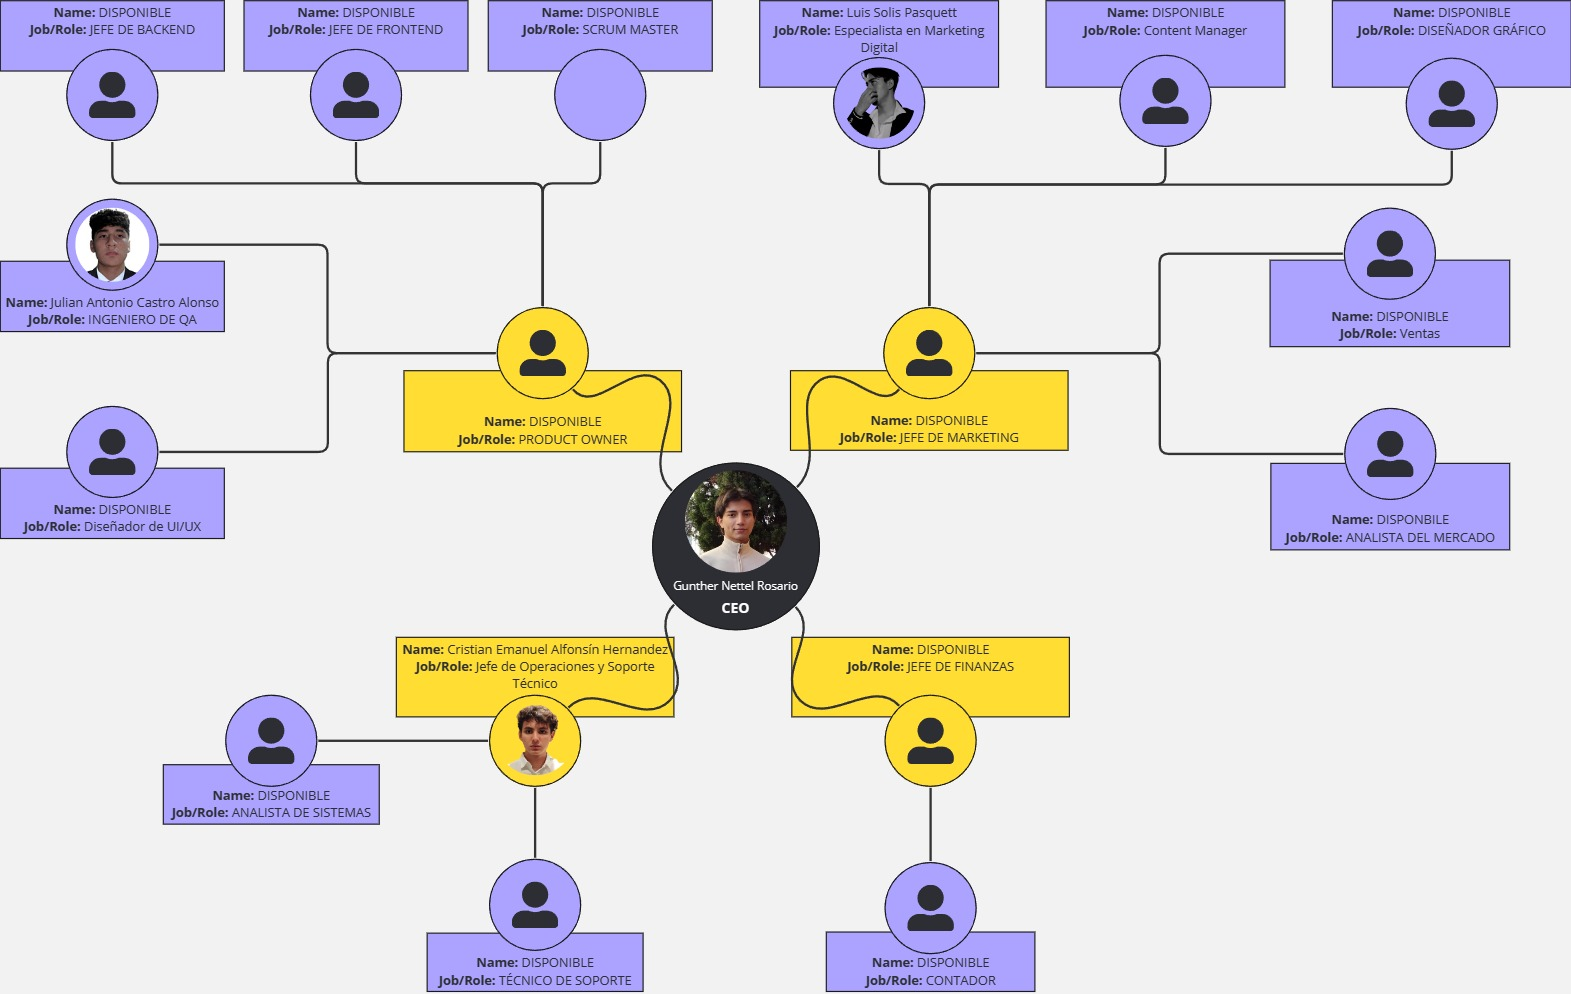
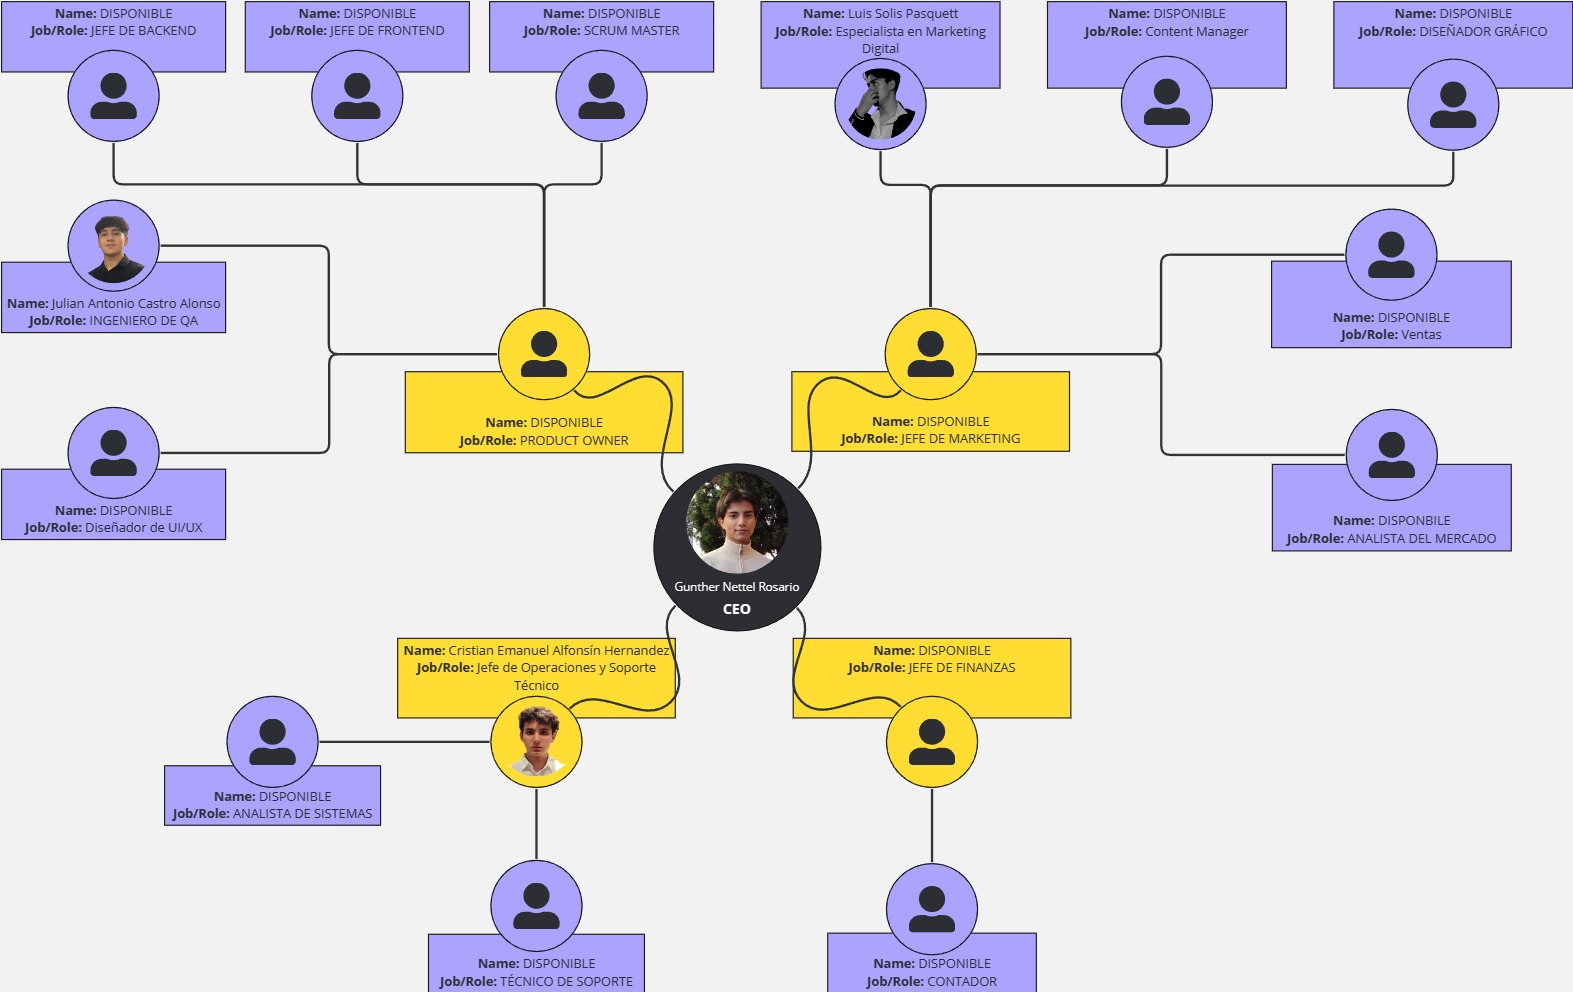
fix the Organization chart and added new photo of Juli

diff --git a/app/empleados/page.tsx b/app/empleados/page.tsx
@@ -6,17 +6,20 @@ import { motion } from "framer-motion";
 import { useState } from "react";
 import Alfon from "@/public/Alfonn.png";
 import Gun from "@/public/Gun.png";
-import Juli from "@/public/Julian.png";
+import Juli from "@/public/SrJulian.png";
 import Bisquet from "@/public/Pasquett.png";
 import OrganigramaWindCode from "@/public/Organigrama.jpg";
 
 export default function empleados() {
 
     const [hidden, setHidden] = useState([true, true, true, true]);
+    const [opacityImage, setOpacityImage] = useState(["opacity-40", "opacity-40", "opacity-40", "opacity-40"]);
 
     const handleMouseOver = (index:number) => {
         setHidden(hidden.map((value, i) => (i === index ? false : true)));
         setHidden(hidden.map((value, i) => (i === index ? false : true)));
+
+        setOpacityImage(opacityImage.map((value, i) => (i === index ? "opacity-100" : "opacity-40")));
       };
 
       const handleMouseOut = () => {
@@ -42,7 +45,7 @@ export default function empleados() {
                             <p className=" text-white mt-2 text-center">Estudiante en busca de conocimiento, nunca es suficiente. Me encanta programar, siempre busco nuevas maneras de hacer algoritmos de maneras más creativas y robustas.</p>
                         </div>
                     </motion.div>
-                    <Image src={Gun.src} alt="empleados" fill={true} quality={100} className="cursor-pointer opacity-60 hover:opacity-100" style={{maskImage: "linear-gradient(black 80%, transparent)"}}/>
+                    <Image src={Gun.src} alt="empleados" fill={true} quality={100} className={`cursor-pointer ${opacityImage[1]} hover:opacity-100`} style={{maskImage: "linear-gradient(black 80%, transparent)"}}/>
                 </article>
 
                 <article className="relative w-[50%]" onMouseOver={()=> handleMouseOver(2)} onMouseOut={handleMouseOut}>
@@ -58,7 +61,7 @@ export default function empleados() {
                             <p className=" text-white mt-2 text-center">Estudiante de desarrollo de software apasionado por la programación y el aprendizaje constante. Mi disciplina y mi curiosidad me impulsan a mejorar día a día, convencido de que cada error es una oportunidad de aprender y mejorar.</p>
                         </div>
                     </motion.div>
-                    <Image src={Juli.src} alt="empleados" fill={true} quality={100} className="cursor-pointer opacity-60 hover:opacity-100" style={{maskImage: "linear-gradient(black 80%, transparent)"}}/>
+                    <Image src={Juli.src} alt="empleados" fill={true} quality={100} className={`cursor-pointer ${opacityImage[2]} hover:opacity-100`} style={{maskImage: "linear-gradient(black 80%, transparent)"}}/>
                 </article>
             </section>
 
@@ -76,7 +79,7 @@ export default function empleados() {
                             <p className=" text-white mt-2 text-center">Estudiante de Licenciatura en Ingeniería en Desarrollo y tecnologías de Software  apasionado por la programación y el desarrollo. Con un enfoque en el aprendizaje continuo. Busco oportunidades para crecer y contribuir en el campo de la tecnología</p>
                         </div>
                     </motion.div>
-                    <Image src={Alfon.src} alt="empleados" fill={true} quality={100} className="cursor-pointer opacity-60 hover:opacity-80" style={{maskImage: "linear-gradient(black 80%, transparent)"}}/>
+                    <Image src={Alfon.src} alt="empleados" fill={true} quality={100} className={`cursor-pointer ${opacityImage[0]} hover:opacity-80`} style={{maskImage: "linear-gradient(black 80%, transparent)"}}/>
             </article>
             <article className="relative w-[50%]" onMouseOver={()=> handleMouseOver(3)} onMouseOut={handleMouseOut}>
                     <motion.div className="bg-neutral-800 opacity-70 absolute w-full h-[12em] bottom-0 flex flex-col items-center rounded-xl z-30"
@@ -91,7 +94,7 @@ export default function empleados() {
                             <p className=" text-white mt-2 text-center">Soy programador</p>
                         </div>
                     </motion.div>
-                    <Image src={Bisquet.src} alt="empleados" fill={true} quality={100} className="cursor-pointer opacity-60 hover:opacity-80" style={{maskImage: "linear-gradient(black 80%, transparent)"}}/>
+                    <Image src={Bisquet.src} alt="empleados" fill={true} quality={100} className={`cursor-pointer ${opacityImage[3]} hover:opacity-80"`} style={{maskImage: "linear-gradient(black 80%, transparent)"}}/>
             </article>
         </section>
             <section className="">

diff --git a/app/lib/data.ts b/app/lib/data.ts
@@ -1,6 +1,6 @@
 export async function fetchUsersTable() {
 
-        const res = await fetch("https://www.windcodeinc.me/api/client");
+        const res = await fetch("http://localhost:3000/api/client");
         const data = await res.json();
 
         if (data.error) {
@@ -12,7 +12,7 @@ export async function fetchUsersTable() {
 
 export async function fetchHistoryTable() {
     try {
-        const res = await fetch("https://www.windcodeinc.me/api/history" , {method: "GET"},);
+        const res = await fetch("http://localhost:3000/api/history" , {method: "GET"},);
         const data = await res.json();
 
         return data;

diff --git a/components/SearchBar.tsx b/components/SearchBar.tsx
@@ -1,5 +1,5 @@
 "use client"
-import { FC, useEffect, useState } from 'react';
+import { useEffect, useState } from 'react';
 
 const SearchBar = () => {
 
@@ -10,7 +10,7 @@ const SearchBar = () => {
     useEffect(() => {
         const getData = async () => {
           try {
-            const res = await fetch("https://www.windcodeinc.me/api/client");
+            const res = await fetch("http://localhost:3000/api/client");
             if (!res.ok) {
               console.log("Error fetch");
             } else {

diff --git a/components/Tickets.tsx b/components/Tickets.tsx
@@ -7,7 +7,7 @@ const Tickets = () => {
     useEffect (() => {
         const getData = async () => {
             try{
-                const res = await fetch ("https://www.windcodeinc.me/api/ticket");
+                const res = await fetch ("http://localhost:3000/api/ticket");
                 if (!res.ok){
                     console.log("No sirvió el fetch")
                 }

diff --git a/app/advisor/resolution/[id]/page.tsx b/app/advisor/resolution/[id]/page.tsx
@@ -1,5 +1,5 @@
 async function loadTicket(id:number){
-    const res = await fetch(`https://www.windcodeinc.me/api/tickets/${id}`);
+    const res = await fetch(`http://localhost:3000/api/tickets/${id}`);
     const data = await res.json();
     console.log(data);
     return data;

diff --git a/components/PricingContent.tsx b/components/PricingContent.tsx
@@ -1,5 +1,4 @@
 import Link from "next/link"
-import { useState } from "react"
 
 export const PricingContent = () => {
 
